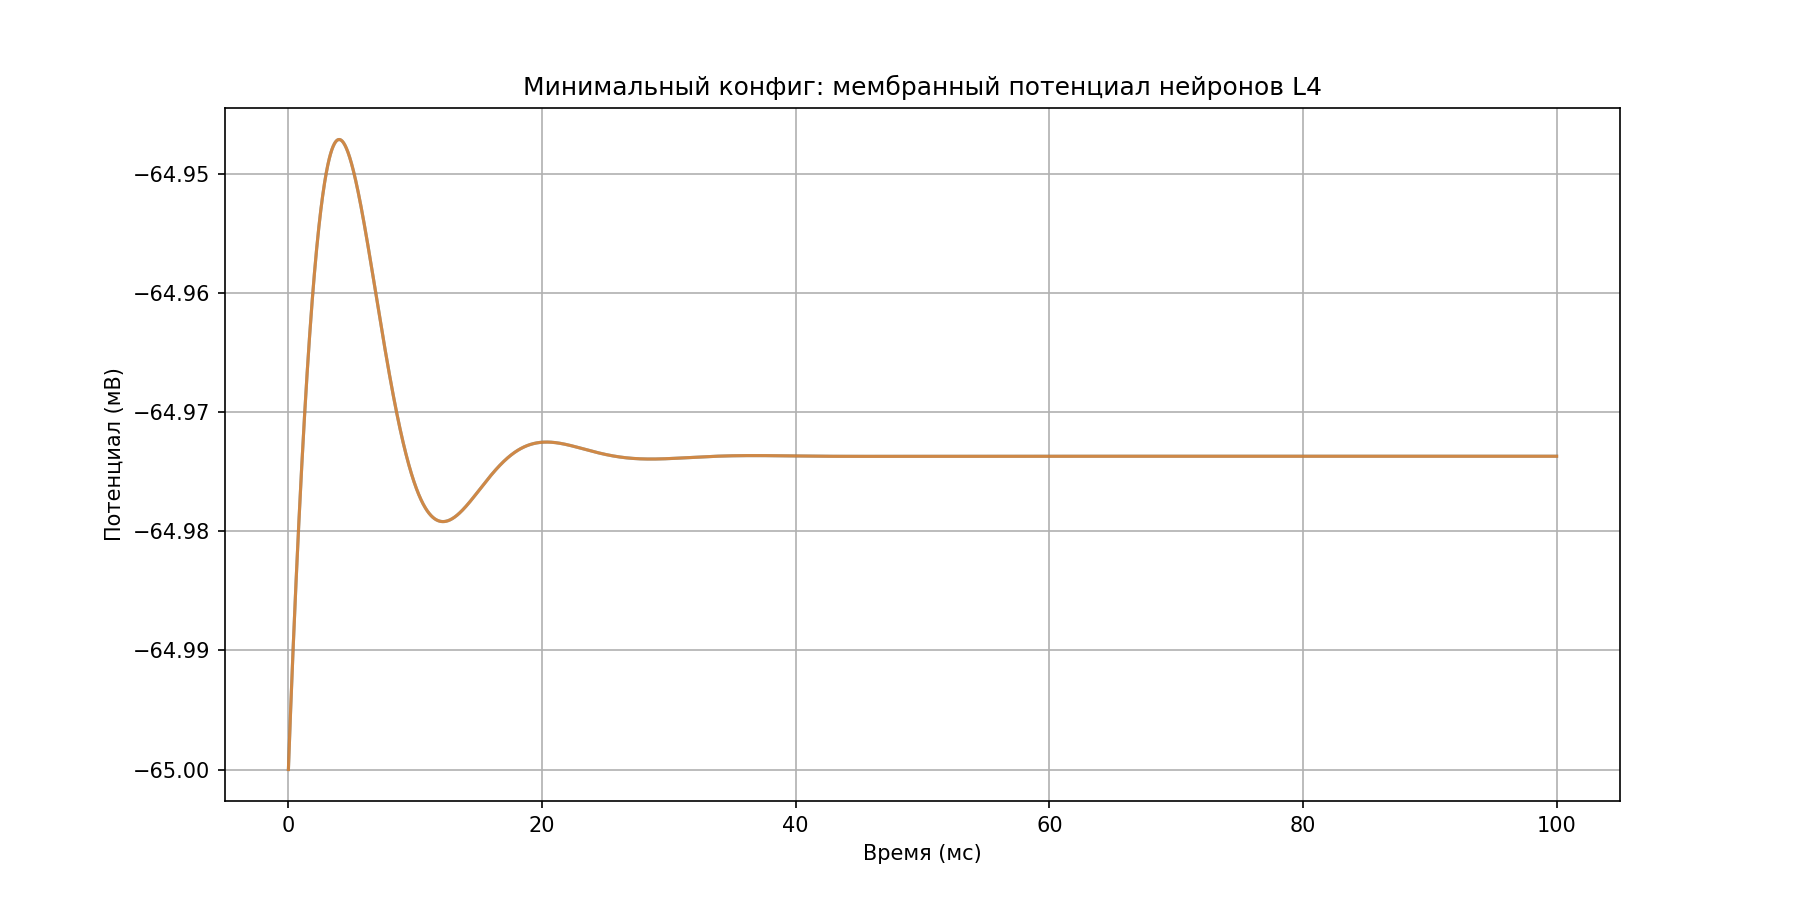
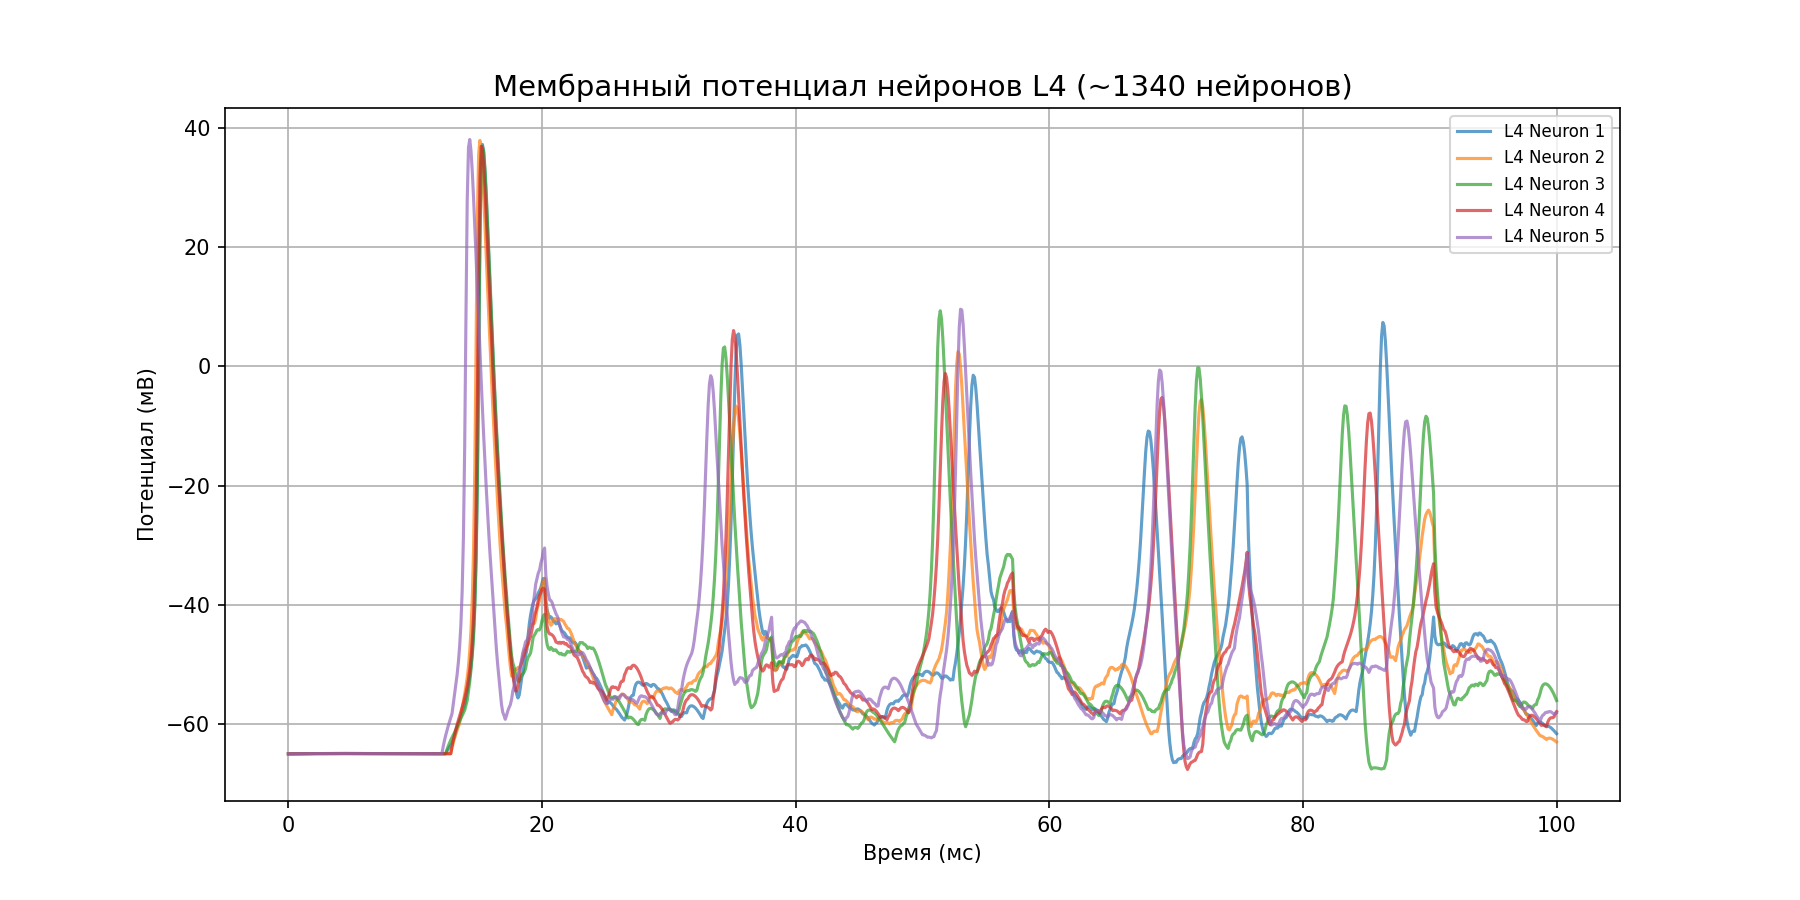
Run correct simulation with ~1340 neurons according to YAML config

diff --git a/simulation_minimal_fixed.py b/simulation_minimal_fixed.py
@@ -1,26 +1,34 @@
 # -*- coding: utf-8 -*-
-"""Минимальная симуляция кортикальной сети"""
+import subprocess
+import sys
 
-from neuron import h, gui
+try:
+    from neuron import h, gui
+except ImportError:
+    subprocess.check_call([sys.executable, "-m", "pip", "install", "neuron"])
+    from neuron import h, gui
+
 import random
 import numpy as np
 import matplotlib.pyplot as plt
 
 h.load_file('stdrun.hoc')
 
-# Минимальный конфиг
-N_thalamus_E = 1
-N_thalamus_I = 1
-N_L4_E = 2
-N_L4_I = 1
-N_L23_E = 2
-N_L23_I = 1
-N_L5_E = 2
-N_L5_I = 1
-N_L6_E = 2
-N_L6_I = 1
+# ========== ПРАВИЛЬНЫЙ КОНФИГ (~1340 нейронов) ==========
+# В соответствии с YAML-файлом
+N_thalamus_E = 80
+N_thalamus_I = 20
+N_L4_E = 200
+N_L4_I = 40
+N_L23_E = 150   # создаст 300 (RS + FRB)
+N_L23_I = 40    # создаст 120 (Bask, LTS, Axax)
+N_L5_E = 120    # создаст 240 (RS + IB)
+N_L5_I = 40     # часть L56_I
+N_L6_E = 130
+N_L6_I = 30     # часть L56_I
 
 h.tstop = 100.0
+h.dt = 0.1
 
 class HHNeuron:
     def __init__(self, inh=False):
@@ -33,6 +41,11 @@ class HHNeuron:
         self.vvec.record(self.soma(0.5)._ref_v)
         self.tvec = h.Vector()
         self.tvec.record(h._ref_t)
+
+def split_population(population, n_subgroups):
+    size = len(population)
+    step = size // n_subgroups
+    return [population[i*step:(i+1)*step] for i in range(n_subgroups)]
 
 def flatten(population):
     if population and isinstance(population[0], list):
@@ -57,6 +70,26 @@ def connect_exc(source_neurons, target_neurons, e=0, tau=2.0, threshold=0, weigh
             netcons.append(nc)
     return synapses, netcons
 
+def connect_exc_gauss(source_neurons, target_neurons, e=0, tau=2.0, threshold=0, weight_mean=0.001, weight_std=0.0009, delay_mean=3.0, delay_std=2):
+    source_neurons = flatten(source_neurons)
+    target_neurons = flatten(target_neurons)
+    netcons = []
+    synapses = []
+    for src in source_neurons:
+        for tgt in target_neurons:
+            syn = h.ExpSyn(tgt.soma(0.5))
+            syn.e = e
+            syn.tau = tau
+            nc = h.NetCon(src.soma(0.5)._ref_v, syn, sec=src.soma)
+            nc.threshold = threshold
+            w = max(0.0, random.gauss(weight_mean, weight_std))
+            d = max(0.1, random.gauss(delay_mean, delay_std))
+            nc.weight[0] = w
+            nc.delay = d
+            synapses.append(syn)
+            netcons.append(nc)
+    return synapses, netcons
+
 def connect_inh(source_neurons, target_neurons, e=-75, tau=3.0, threshold=0, weight=0.001, delay=2.0):
     source_neurons = flatten(source_neurons)
     target_neurons = flatten(target_neurons)
@@ -75,25 +108,67 @@ def connect_inh(source_neurons, target_neurons, e=-75, tau=3.0, threshold=0, wei
             netcons.append(nc)
     return synapses, netcons
 
-# Создание нейронов
+print("="*60)
+print("СОЗДАНИЕ НЕЙРОНОВ (~1340 нейронов)")
+print("="*60)
+
+# Таламус
 thalamus_E_TCR = [HHNeuron(inh=False) for _ in range(N_thalamus_E)]
 thalamus_I_nRT = [HHNeuron(inh=True) for _ in range(N_thalamus_I)]
+print(f"Таламус: {len(thalamus_E_TCR)} E + {len(thalamus_I_nRT)} I")
 
-L23_E = [HHNeuron() for _ in range(N_L23_E)]
-L23_I = [HHNeuron(inh=True) for _ in range(N_L23_I)]
-L4_E = [HHNeuron() for _ in range(N_L4_E)]
-L4_I = [HHNeuron(inh=True) for _ in range(N_L4_I)]
-L5_E = [HHNeuron() for _ in range(N_L5_E)]
-L5_I = [HHNeuron(inh=True) for _ in range(N_L5_I)]
-L6_E = [HHNeuron() for _ in range(N_L6_E)]
-L6_I = [HHNeuron(inh=True) for _ in range(N_L6_I)]
+# L4
+L4_E_Spinstel4 = split_population([HHNeuron() for _ in range(N_L4_E)], 1)
+L4_I_LTS4 = split_population([HHNeuron(inh=True) for _ in range(N_L4_I)], 1)
+print(f"L4: {len(flatten(L4_E_Spinstel4))} E + {len(flatten(L4_I_LTS4))} I")
 
-# Стимуляция
+# L2/3
+L23_I_Axax23 = split_population([HHNeuron(inh=True) for _ in range(N_L23_I)], 3)
+L23_I_Bask23 = split_population([HHNeuron(inh=True) for _ in range(N_L23_I)], 3)
+L23_I_LTS23 = split_population([HHNeuron(inh=True) for _ in range(N_L23_I)], 3)
+L23_E_SyppyrRS = split_population([HHNeuron() for _ in range(N_L23_E)], 2)
+L23_E_SyppyrFRB = split_population([HHNeuron() for _ in range(N_L23_E)], 2)
+print(f"L2/3: {len(flatten(L23_E_SyppyrRS)) + len(flatten(L23_E_SyppyrFRB))} E + {len(flatten(L23_I_Axax23))} I")
+
+# L5
+L5_E_TuftRS5 = split_population([HHNeuron() for _ in range(N_L5_E)], 2)
+L5_E_TuftIB5 = split_population([HHNeuron() for _ in range(N_L5_E)], 2)
+
+# L5/6 ингибиторы
+total_I_56 = N_L5_I + N_L6_I
+L56_I_Bask56 = split_population([HHNeuron(inh=True) for _ in range(total_I_56)], 3)
+L56_I_Axax56 = split_population([HHNeuron(inh=True) for _ in range(total_I_56)], 3)
+L56_I_LTS56 = split_population([HHNeuron(inh=True) for _ in range(total_I_56)], 3)
+print(f"L5: {len(flatten(L5_E_TuftRS5)) + len(flatten(L5_E_TuftIB5))} E")
+
+# L6
+L6_E_NontuftRS6 = split_population([HHNeuron() for _ in range(N_L6_E)], 1)
+print(f"L6: {len(flatten(L6_E_NontuftRS6))} E")
+print(f"L5/6 I: {len(flatten(L56_I_Bask56))} ингибиторов")
+
+# Подсчёт общего числа
+total_neurons = (len(thalamus_E_TCR) + len(thalamus_I_nRT) +
+                 len(flatten(L4_E_Spinstel4)) + len(flatten(L4_I_LTS4)) +
+                 len(flatten(L23_E_SyppyrRS)) + len(flatten(L23_E_SyppyrFRB)) +
+                 len(flatten(L23_I_Axax23)) + len(flatten(L23_I_Bask23)) + len(flatten(L23_I_LTS23)) +
+                 len(flatten(L5_E_TuftRS5)) + len(flatten(L5_E_TuftIB5)) +
+                 len(flatten(L6_E_NontuftRS6)) +
+                 len(flatten(L56_I_Bask56)) + len(flatten(L56_I_Axax56)) + len(flatten(L56_I_LTS56)))
+print(f"\n✅ ВСЕГО НЕЙРОНОВ: {total_neurons}")
+
+print("\n" + "="*60)
+print("ГЕНЕРАТОРЫ СПАЙКОВ ДЛЯ ТАЛАМУСА")
+print("="*60)
+
+# Генератор спайков для таламуса
+syn_inputs = []
+conns = []
 netstims = []
+
 for cell in thalamus_E_TCR:
     netstim = h.NetStim()
     netstim.start = 10
-    netstim.number = 5
+    netstim.number = 10
     netstim.interval = 20
     netstim.noise = 0.5
     syn = h.ExpSyn(cell.soma(0.5))
@@ -101,44 +176,131 @@ for cell in thalamus_E_TCR:
     syn.tau = 2.0
     nc = h.NetCon(netstim, syn)
     nc.weight[0] = 0.01
+    syn_inputs.append(syn)
+    conns.append(nc)
     netstims.append(netstim)
 
-# Базовые связи
-connect_exc(thalamus_E_TCR, L4_E)
-connect_exc(L4_E, L23_E)
-connect_exc(L23_E, L5_E)
-connect_exc(L5_E, L6_E)
-connect_inh(L4_I, L4_E)
-connect_inh(L23_I, L23_E)
-connect_inh(L5_I, L5_E)
-connect_inh(L6_I, L6_E)
+print(f"Создано {len(netstims)} NetStim для таламических нейронов")
 
-total_neurons = len(thalamus_E_TCR) + len(thalamus_I_nRT) + len(L23_E) + len(L23_I) + len(L4_E) + len(L4_I) + len(L5_E) + len(L5_I) + len(L6_E) + len(L6_I)
-print(f"Всего нейронов: {total_neurons}")
+print("\n" + "="*60)
+print("СОЗДАНИЕ СВЯЗЕЙ")
+print("="*60)
 
-# Запуск
+# Таламус → L4
+synapses_TCR_to_L4, netcons_TCR_to_L4 = connect_exc_gauss(thalamus_E_TCR, L4_E_Spinstel4)
+print(f"Таламус → L4: {len(synapses_TCR_to_L4)} связей")
+
+# Таламус → nRT (ингибиторы)
+synapses_TCR_to_nRT, netcons_TCR_to_nRT = connect_exc(thalamus_E_TCR, thalamus_I_nRT)
+print(f"Таламус → nRT: {len(synapses_TCR_to_nRT)} связей")
+
+# L4 → L4 (рекуррентные)
+synapses_L4_to_L4, netcons_L4_to_L4 = connect_exc_gauss(L4_E_Spinstel4, L4_E_Spinstel4)
+print(f"L4 → L4: {len(synapses_L4_to_L4)} связей")
+
+# L4 → L4 ингибиторы
+synapses_L4_to_L4_I_LTS4, netcons_L4_to_L4_I_LTS4 = connect_exc(L4_E_Spinstel4, L4_I_LTS4)
+print(f"L4 → L4 I: {len(synapses_L4_to_L4_I_LTS4)} связей")
+
+# L4 → L2/3
+synapses_L4_to_L23_RS, netcons_L4_to_L23_RS = connect_exc(L4_E_Spinstel4, L23_E_SyppyrRS)
+synapses_L4_to_L23_FRB, netcons_L4_to_L23_FRB = connect_exc(L4_E_Spinstel4, L23_E_SyppyrFRB)
+print(f"L4 → L2/3: {len(synapses_L4_to_L23_RS) + len(synapses_L4_to_L23_FRB)} связей")
+
+# L2/3 → L2/3
+synapses_L23_RS_to_RS, netcons_L23_RS_to_RS = connect_exc(L23_E_SyppyrRS, L23_E_SyppyrRS)
+synapses_L23_FRB_to_FRB, netcons_L23_FRB_to_FRB = connect_exc(L23_E_SyppyrFRB, L23_E_SyppyrFRB)
+print(f"L2/3 → L2/3: {len(synapses_L23_RS_to_RS) + len(synapses_L23_FRB_to_FRB)} связей")
+
+# L2/3 → L5
+synapses_L23_RS_to_TuftRS5, netcons_L23_RS_to_TuftRS5 = connect_exc(L23_E_SyppyrRS, L5_E_TuftRS5)
+synapses_L23_RS_to_TuftIB5, netcons_L23_RS_to_TuftIB5 = connect_exc(L23_E_SyppyrRS, L5_E_TuftIB5)
+synapses_L23_FRB_to_TuftRS5, netcons_L23_FRB_to_TuftRS5 = connect_exc(L23_E_SyppyrFRB, L5_E_TuftRS5)
+synapses_L23_FRB_to_TuftIB5, netcons_L23_FRB_to_TuftIB5 = connect_exc(L23_E_SyppyrFRB, L5_E_TuftIB5)
+print(f"L2/3 → L5: {len(synapses_L23_RS_to_TuftRS5) + len(synapses_L23_RS_to_TuftIB5) + len(synapses_L23_FRB_to_TuftRS5) + len(synapses_L23_FRB_to_TuftIB5)} связей")
+
+# L5 → L5
+synapses_TuftRS5_to_TuftRS5, netcons_TuftRS5_to_TuftRS5 = connect_exc(L5_E_TuftRS5, L5_E_TuftRS5)
+synapses_TuftRS5_to_TuftIB5, netcons_TuftRS5_to_TuftIB5 = connect_exc(L5_E_TuftRS5, L5_E_TuftIB5)
+synapses_TuftIB5_to_TuftIB5, netcons_TuftIB5_to_TuftIB5 = connect_exc(L5_E_TuftIB5, L5_E_TuftIB5)
+print(f"L5 → L5: {len(synapses_TuftRS5_to_TuftRS5) + len(synapses_TuftRS5_to_TuftIB5) + len(synapses_TuftIB5_to_TuftIB5)} связей")
+
+# L5 → L6
+synapses_TuftRS5_to_L6, netcons_TuftRS5_to_L6 = connect_exc(L5_E_TuftRS5, L6_E_NontuftRS6)
+synapses_TuftIB5_to_L6, netcons_TuftIB5_to_L6 = connect_exc(L5_E_TuftIB5, L6_E_NontuftRS6)
+print(f"L5 → L6: {len(synapses_TuftRS5_to_L6) + len(synapses_TuftIB5_to_L6)} связей")
+
+# L6 → L5 (обратные связи)
+synapses_L6_to_TuftRS5, netcons_L6_to_TuftRS5 = connect_exc(L6_E_NontuftRS6, L5_E_TuftRS5)
+synapses_L6_to_TuftIB5, netcons_L6_to_TuftIB5 = connect_exc(L6_E_NontuftRS6, L5_E_TuftIB5)
+print(f"L6 → L5: {len(synapses_L6_to_TuftRS5) + len(synapses_L6_to_TuftIB5)} связей")
+
+# Тормозные связи
+synapses_LTS4_to_L4, netcons_LTS4_to_L4 = connect_inh(L4_I_LTS4, L4_E_Spinstel4)
+print(f"L4 I → L4 E: {len(synapses_LTS4_to_L4)} связей")
+
+synapses_LTS23_to_RS, netcons_LTS23_to_RS = connect_inh(L23_I_LTS23, L23_E_SyppyrRS)
+print(f"L2/3 LTS → RS: {len(synapses_LTS23_to_RS)} связей")
+
+synapses_Bask23_to_RS, netcons_Bask23_to_RS = connect_inh(L23_I_Bask23, L23_E_SyppyrRS)
+print(f"L2/3 Basket → RS: {len(synapses_Bask23_to_RS)} связей")
+
+synapses_nRT_to_nRT, netcons_nRT_to_nRT = connect_inh(thalamus_I_nRT, thalamus_I_nRT)
+print(f"nRT → nRT: {len(synapses_nRT_to_nRT)} связей")
+
+print("\n" + "="*60)
+print("ЗАПУСК СИМУЛЯЦИИ")
+print("="*60)
+
 h.finitialize(-65)
 h.continuerun(h.tstop)
 
-# Визуализация и сохранение графика
+print(f"✅ Симуляция завершена! Время: {h.tstop} мс")
+
+print("\n" + "="*60)
+print("ВИЗУАЛИЗАЦИЯ")
+print("="*60)
+
+# Функция для подсчёта спайков
+def count_spikes(neuron, threshold=0):
+    v = np.array(neuron.vvec)
+    count = 0
+    for i in range(1, len(v)):
+        if v[i-1] < threshold and v[i] >= threshold:
+            count += 1
+    return count
+
+# Сбор статистики
+l4_neurons = flatten(L4_E_Spinstel4)[:50]
+l4_spikes = sum(count_spikes(n) for n in l4_neurons)
+l23_neurons = flatten(L23_E_SyppyrRS)[:50] + flatten(L23_E_SyppyrFRB)[:50]
+l23_spikes = sum(count_spikes(n) for n in l23_neurons)
+
+print(f"L4 нейроны (первые 50): {l4_spikes} спайков")
+print(f"L2/3 нейроны (первые 100): {l23_spikes} спайков")
+
+# График мембранного потенциала
 plt.figure(figsize=(12, 6))
-for neuron in L4_E[:2]:
+for i, neuron in enumerate(flatten(L4_E_Spinstel4)[:5]):
     v = neuron.vvec.as_numpy()
     t = neuron.tvec.as_numpy()
-    plt.plot(t, v, alpha=0.7)
-plt.title("Минимальный конфиг: мембранный потенциал нейронов L4")
+    mask = t <= 100
+    plt.plot(t[mask], v[mask], alpha=0.7, label=f"L4 Neuron {i+1}")
+
+plt.title("Мембранный потенциал нейронов L4 (~1340 нейронов)", fontsize=14)
 plt.xlabel("Время (мс)")
 plt.ylabel("Потенциал (мВ)")
+plt.legend(loc='upper right', fontsize=8)
 plt.grid(True)
 plt.savefig("simulation_result.png", dpi=150)
 plt.show()
 
-print("✅ Симуляция завершена! График сохранён как simulation_result.png")
-
-# Сохраняем результаты в текстовый файл
+# Сохранение результатов
 with open("results.txt", "w") as f:
     f.write(f"Всего нейронов: {total_neurons}\n")
     f.write(f"Время симуляции: {h.tstop} мс\n")
-    f.write("Симуляция завершена успешно\n")
+    f.write(f"L4 спайков (первые 50): {l4_spikes}\n")
+    f.write(f"L2/3 спайков (первые 100): {l23_spikes}\n")
+    f.write("Симуляция на ~1340 нейронах завершена\n")
 
-print("✅ Результаты сохранены в results.txt")
+print("\n✅ Готово! Результаты сохранены: simulation_result.png, results.txt")